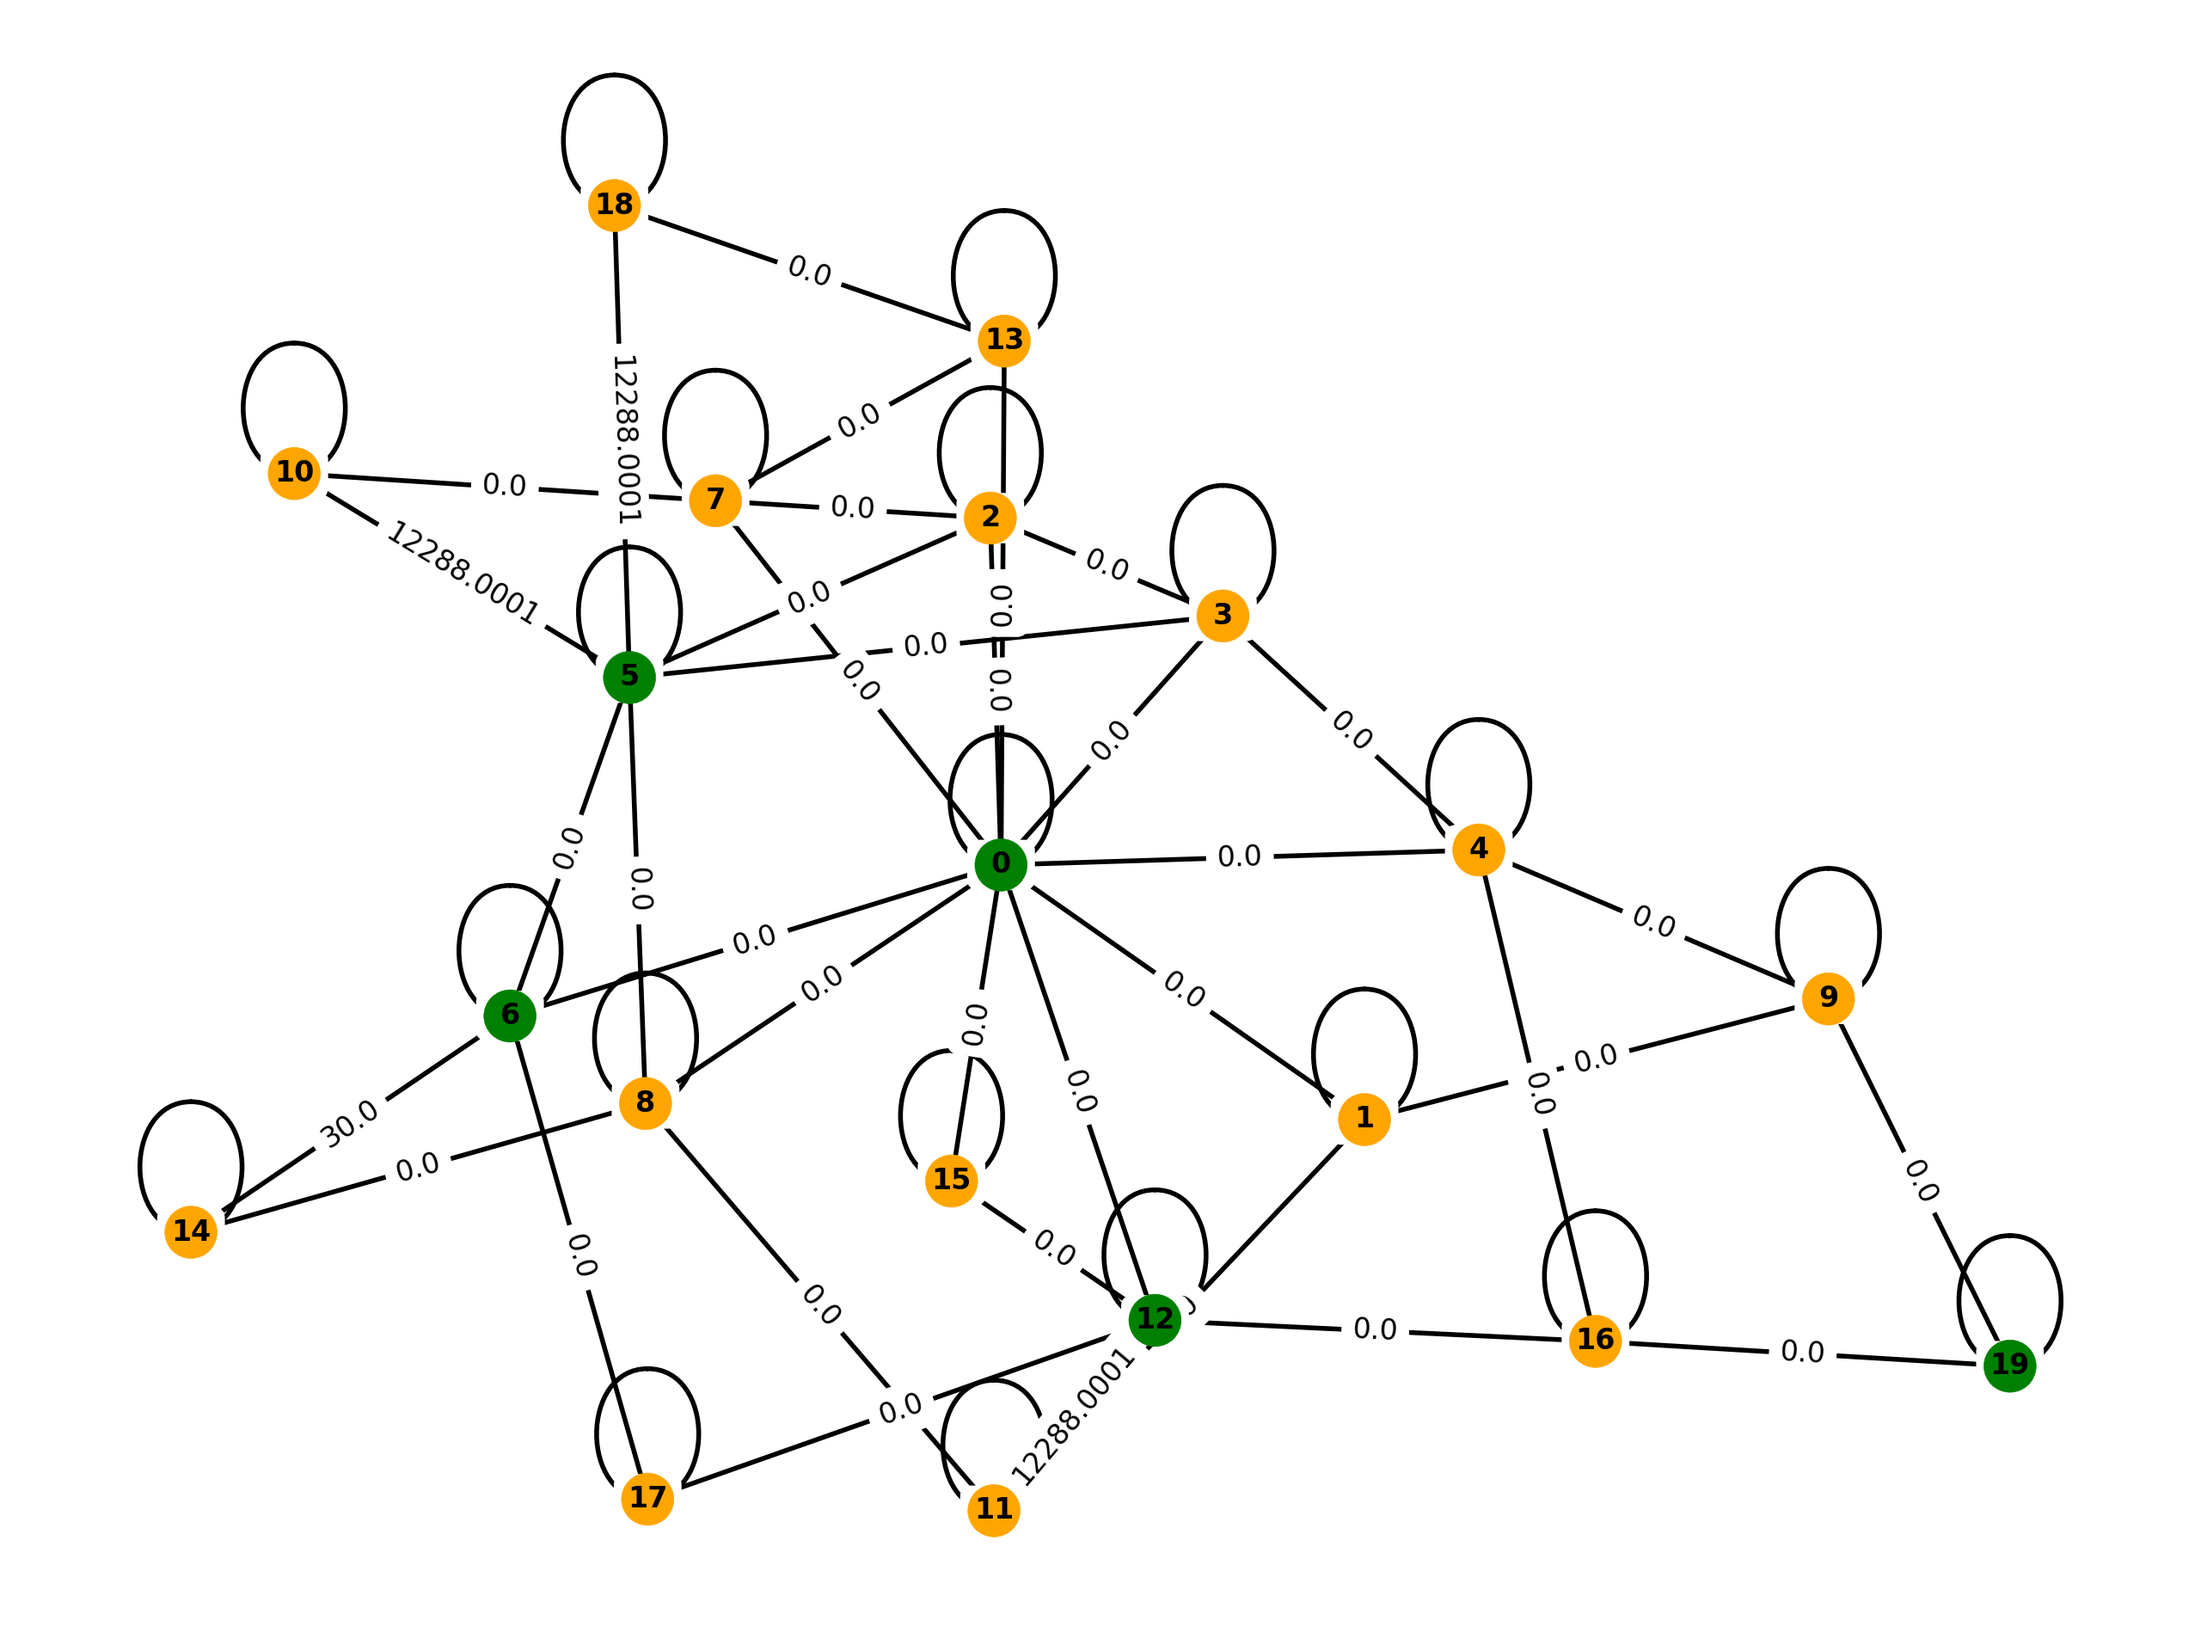
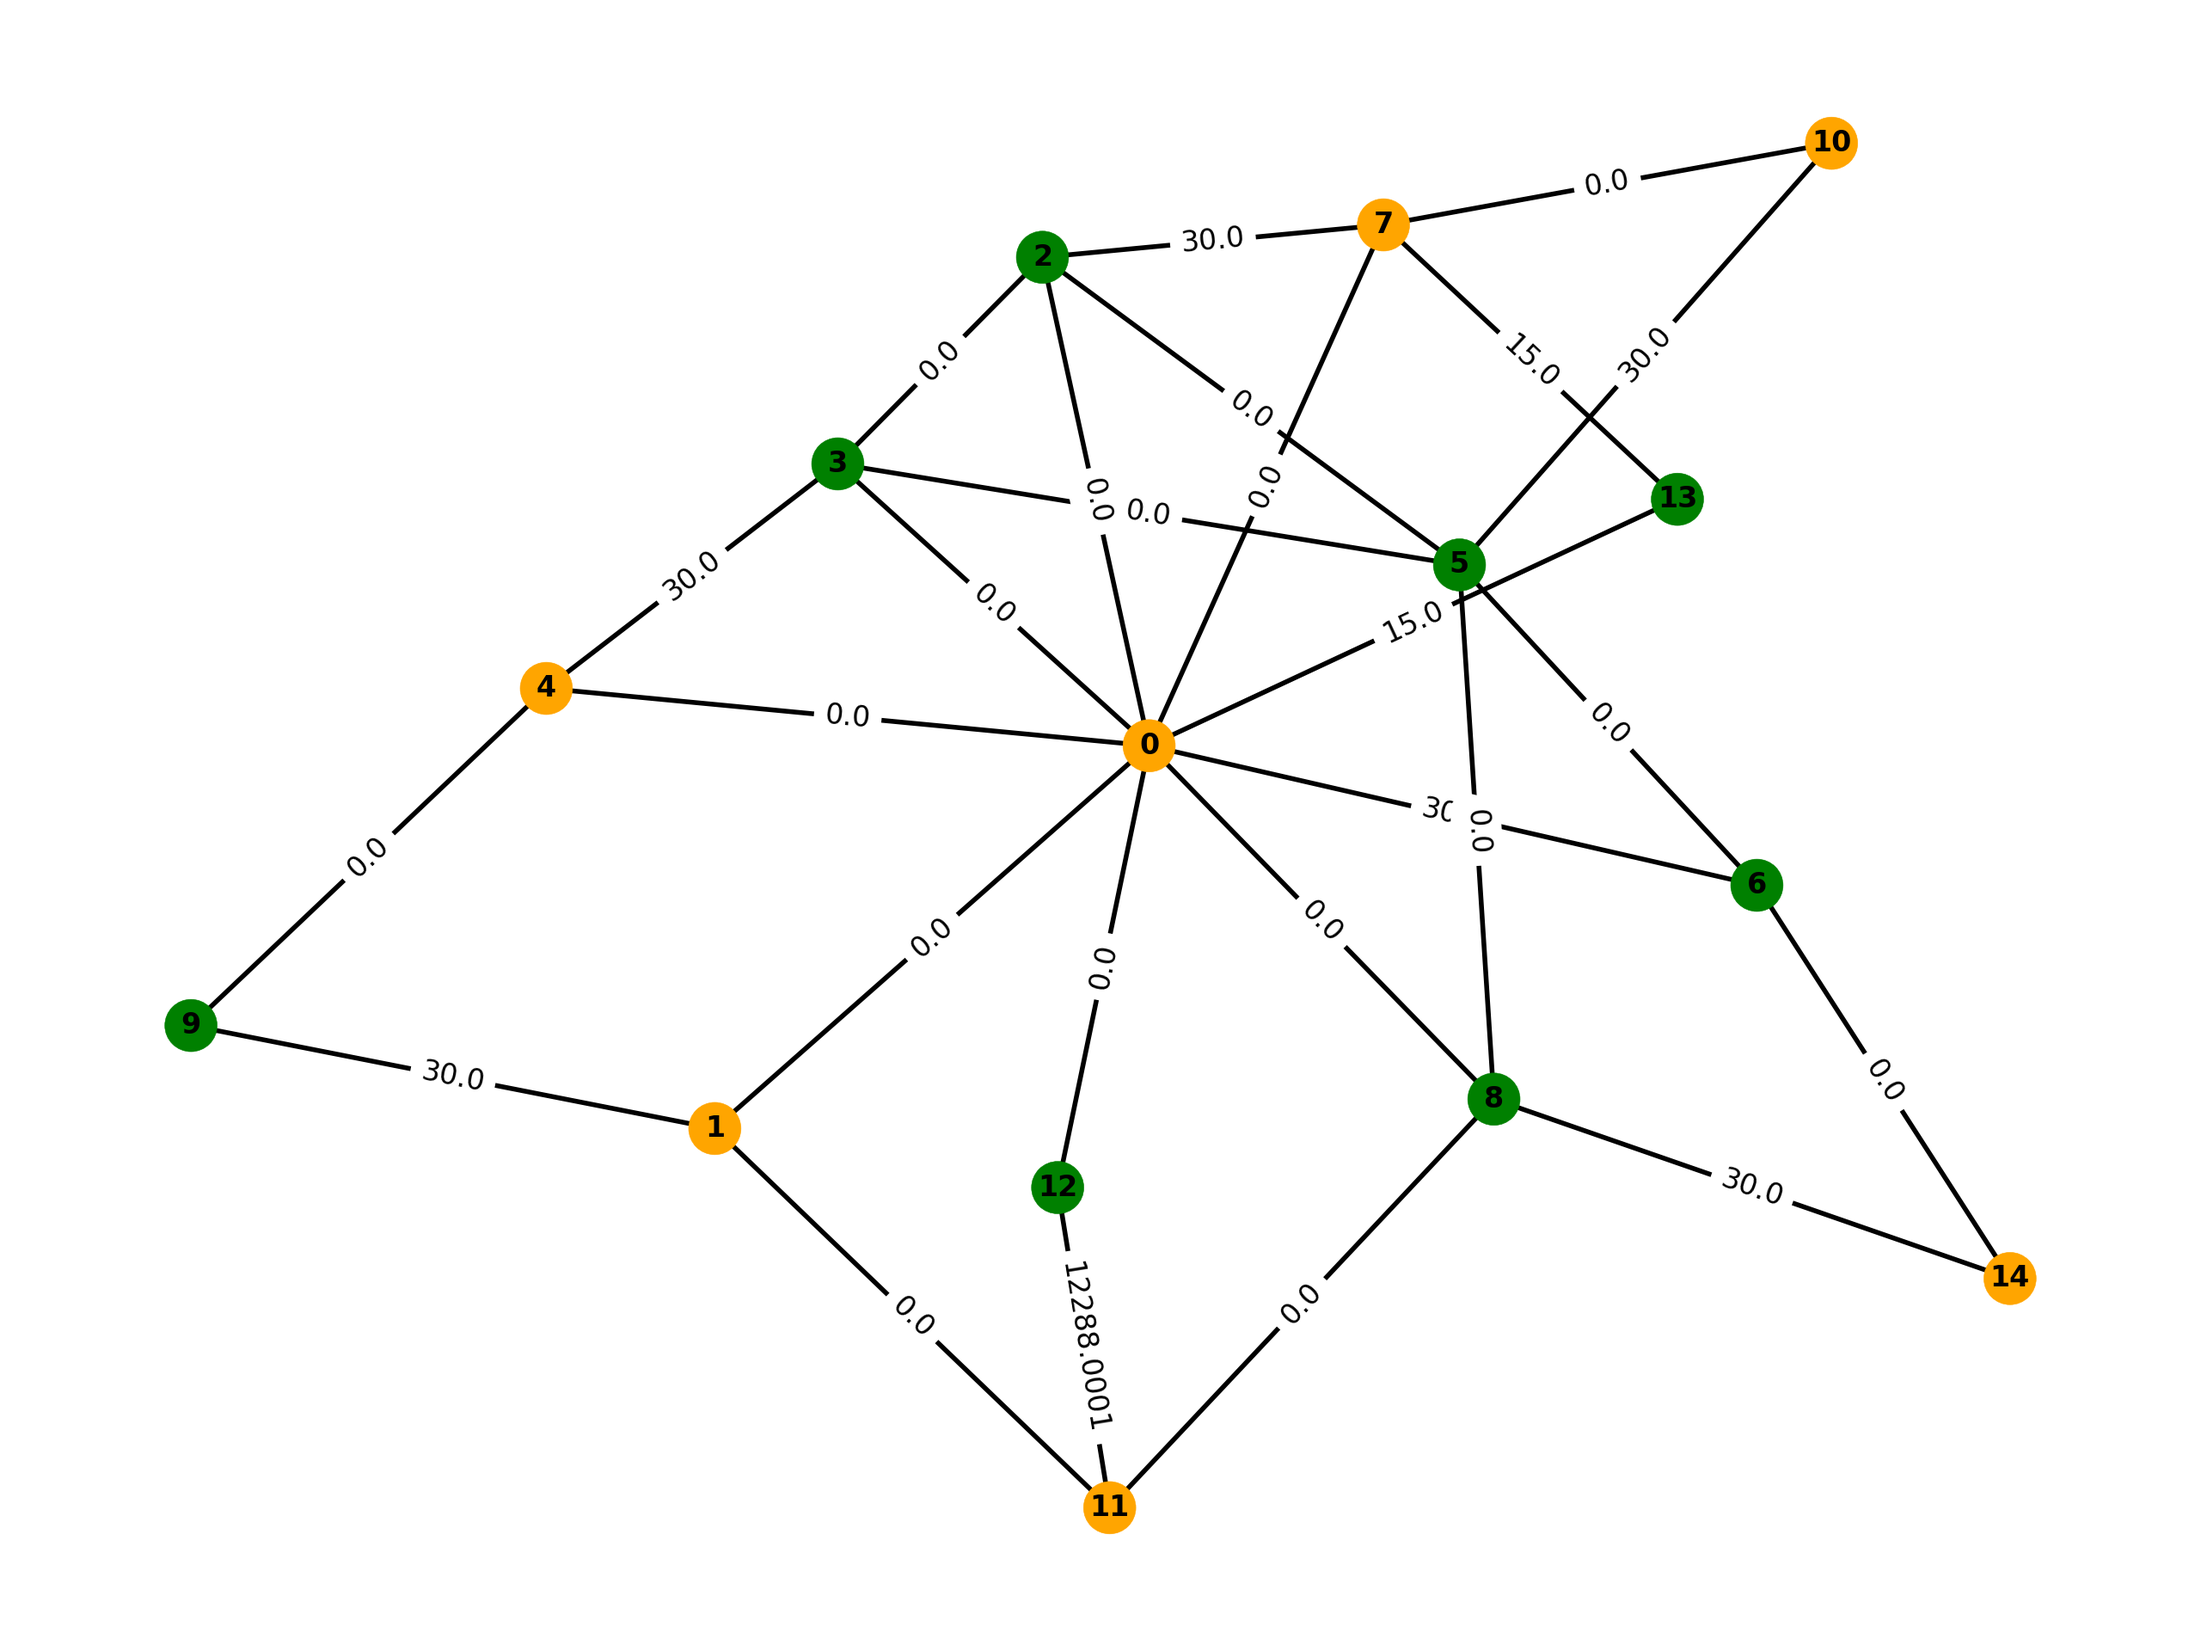
fixed linear

diff --git a/ntua_sources/ilp.py b/ntua_sources/ilp.py
@@ -39,34 +39,39 @@ class ilp_model:
             print(f"{name}: {constraint.value()}")
         print()
         
+        return {'statusCode':self.model.status,'status':LpStatus[self.model.status],'variables':self.model.variables()}
+        
     def solve(self):
         self.model = LpProblem(name="minVertexCover", sense=LpMinimize)
         
-        activation = LpVariable.dicts("activation",(nodeIndex for nodeIndex in range(self.graph.number_of_nodes())),cat='Binary')
-        transfered = LpVariable.dicts("transfered",((n,d) for n,d in self.graph.edges),cat='Integer',lowBound=0)
+        activation = LpVariable.dicts("activation",(n for n in self.graph.nodes),cat='Integer',lowBound=0)
+        transfered = LpVariable.dicts("transfered",(edge for edge in self.graph.edges),cat='Integer',lowBound=0)
+                
+        # for n in self.graph: 
+            # for tempn,d in self.graph.edges(n):
+                # self.model += transfered[(n,d)] <= self.graph.edges[n,d]['capacity']*activation[n]*5
         
-        total_caps = []
-        for n in range(self.graph.number_of_nodes()):
-            if n in self.graph:
-                total_cap = 0.0
-                for d in self.graph[n]:
-                    total_cap += self.graph[n][d]['capacity']
-                total_caps.append(total_cap)
-        #Δεν δουλεύει το self.graph[n], άλλαξτο σε graph.edges με κάποιο τρόπο.
-        for n in self.graph:
-            self.model += lpSum([transfered[(n,d)] for d in self.graph[n]]) <= total_caps[n]*activation[n]*3
+        for n in self.graph: 
+            self.model += lpSum([transfered[edge] for edge in self.graph.edges if edge[0] == n or edge[1] == n]) >= self.volume
         
-        for d in range(self.graph.number_of_nodes()):
-            self.model += lpSum([transfered[(n,d)] for n in self.graph if d in self.graph[n]]) == self.volume
-            
-        for n in self.graph:
-            for d in self.graph[n]:
-                self.model += transfered[(n,d)] <= self.volume*activation[n]
+        for edge in self.graph.edges:
+            self.model += transfered[edge] <= self.volume*(activation[edge[0]]+activation[edge[1]])*self.graph.number_of_nodes()
+            # self.model += transfered[edge] <= self.graph.edges[edge]['capacity']*(activation[edge[0]]+activation[edge[1]])*5
         
         self.model += lpSum(
-            [activation[n]*self.volume for n in range(self.graph.number_of_nodes())] + 
-            [transfered[(n,d)]*(1/self.graph[n][d]['capacity']) for n in self.graph for d in self.graph[n]]
+            [activation[n]*self.volume for n in self.graph] + 
+            [transfered[edge]*(1/self.graph.edges[edge[0],edge[1]]['capacity']) for edge in self.graph.edges]
         )
         
         status = self.model.solve()
+        
+        print(f"status: {self.model.status}, {LpStatus[self.model.status]}")
+        print(f"objective: {self.model.objective.value()}")
+        for var in self.model.variables():
+            print(f"{var.name}: {var.value()}")
+        print()
+        for name, constraint in self.model.constraints.items():
+            print(f"{name}: {constraint.value()}")
+        print()
+        
         return {'statusCode':self.model.status,'status':LpStatus[self.model.status],'variables':self.model.variables()}

diff --git a/ntua_sources/grapher.py b/ntua_sources/grapher.py
@@ -25,11 +25,11 @@ numpy.random.seed(10)
 imageSize = 3*1024*1024*1024
 bandwidthEthernet = 10*1024*1024*1024
 bandwidthWifi = 25*1024*1024
-bandwidthlocalfile = 100*1024*1024*1024
+bandwidthlocalfile = 0.5*1024*1024
 
 def draw_continuum(filename: string, color_map, graph, mode=None):
     
-    edge_labels = nx.get_edge_attributes(graph, 'percentage')
+    edge_labels = nx.get_edge_attributes(graph, 'time')
     
     drawFuncs = [nx.draw,nx.draw_circular,nx.draw_kamada_kawai,nx.draw_planar,nx.draw_random,nx.draw_spectral,nx.draw_spring,nx.draw_shell]
     drawLayouts = [nx.drawing.layout.spiral_layout,nx.drawing.layout.circular_layout,nx.drawing.layout.kamada_kawai_layout,nx.drawing.layout.planar_layout,nx.drawing.layout.random_layout,nx.drawing.layout.spectral_layout,nx.drawing.layout.spring_layout,nx.drawing.layout.shell_layout]
@@ -44,7 +44,7 @@ def draw_continuum(filename: string, color_map, graph, mode=None):
     plt.show()
     plt.clf()
 
-def create_continuum(size=20, degree = 2):
+def create_continuum(size=15, degree = 2):
     # Graph creation
     # G = nx.star_graph(degree)
     G2 = nx.barabasi_albert_graph(size, degree)
@@ -52,8 +52,8 @@ def create_continuum(size=20, degree = 2):
     # G2 = nx.generators.classic.binomial_tree(size)
 
     NODES = G2.number_of_nodes()
-    for n in G2:
-        G2.add_edge(n,n)
+    # for n in G2:
+        # G2.add_edge(n,n)
 
     # Attributes to the graph
     edgeCapacities = {}
@@ -66,7 +66,8 @@ def create_continuum(size=20, degree = 2):
             edgeCapacities[edge] = bandwidthEthernet
     nx.set_edge_attributes(G2, values=edgeCapacities, name='capacity')
     nx.set_edge_attributes(G2, values=0, name='usage')
-    nx.set_edge_attributes(G2, values=0, name='percentage')
+    nx.set_edge_attributes(G2, values=0, name='time')
+    nx.set_edge_attributes(G2, values=0, name='numImages')
     
     ilpModel = ilp.ilp_model(G2,imageSize)
     res = ilpModel.solve()
@@ -82,8 +83,9 @@ def create_continuum(size=20, degree = 2):
                 n = int(nodes.split(',')[0].replace('(',''))
                 d = int(nodes.split(',')[1].replace(')',''))
                 G2[n][d]['usage'] = var.value()
-                G2[n][d]['percentage'] = round(G2[n][d]['usage'] / G2[n][d]['capacity'],6) * 100
-                print(f"Usage of channel {n} to {d} is {G2[n][d]['percentage']*100}")
+                G2[n][d]['numImages'] = round(G2[n][d]['usage'] / imageSize,4)
+                G2[n][d]['time'] = round(G2[n][d]['usage'] / G2[n][d]['capacity'],6) * 100
+                print(f"Usage of channel {n} to {d} is {G2[n][d]['time']*100}")
     else:
         print(res['status'])
         return
